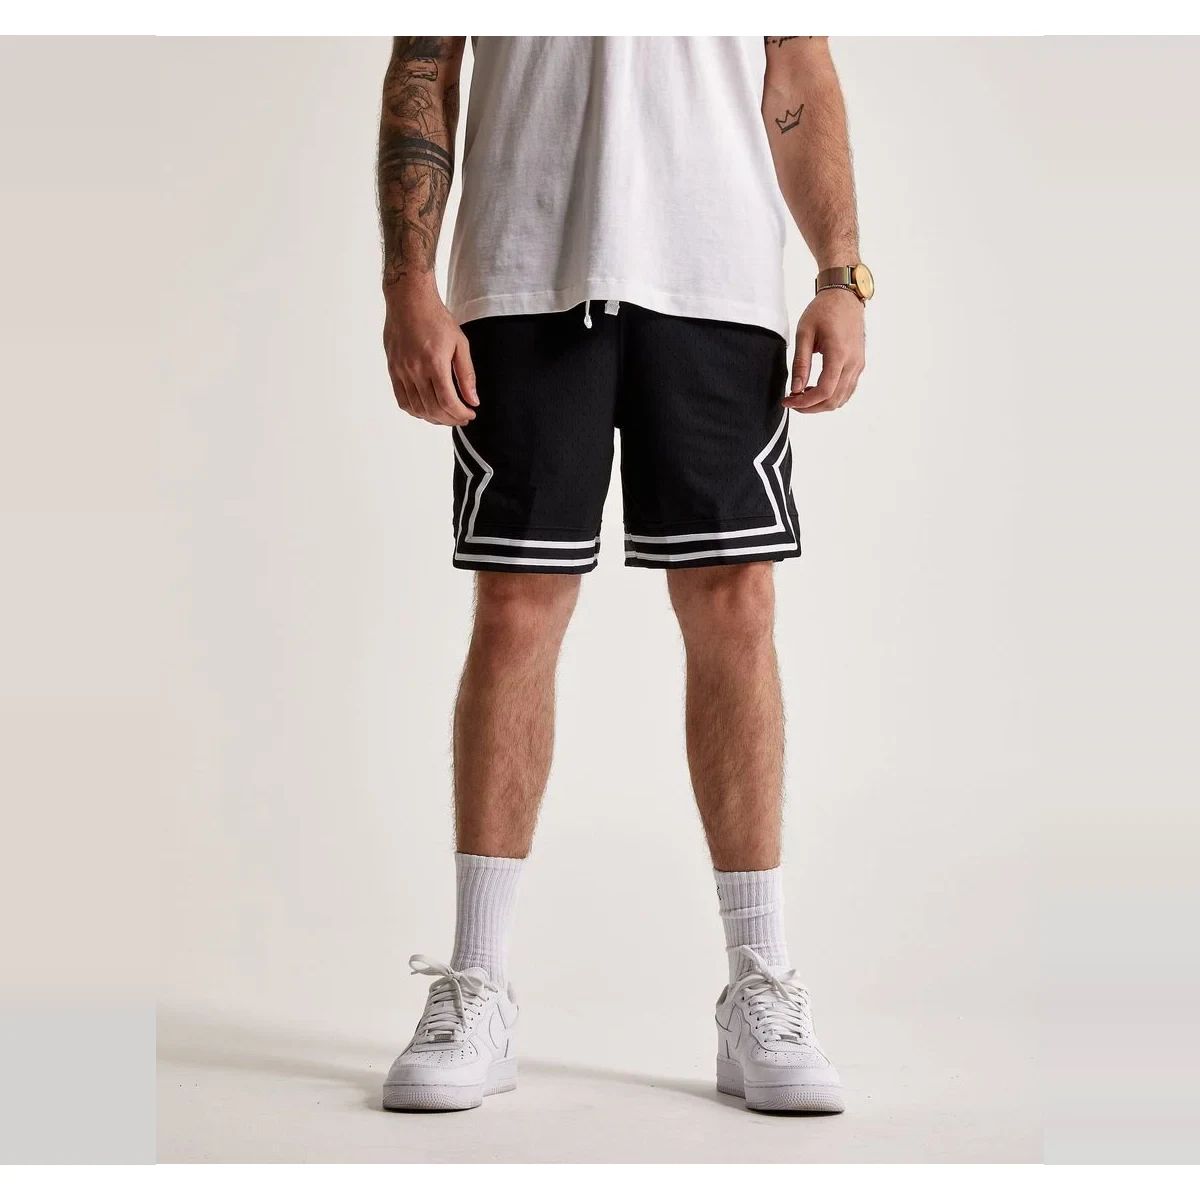
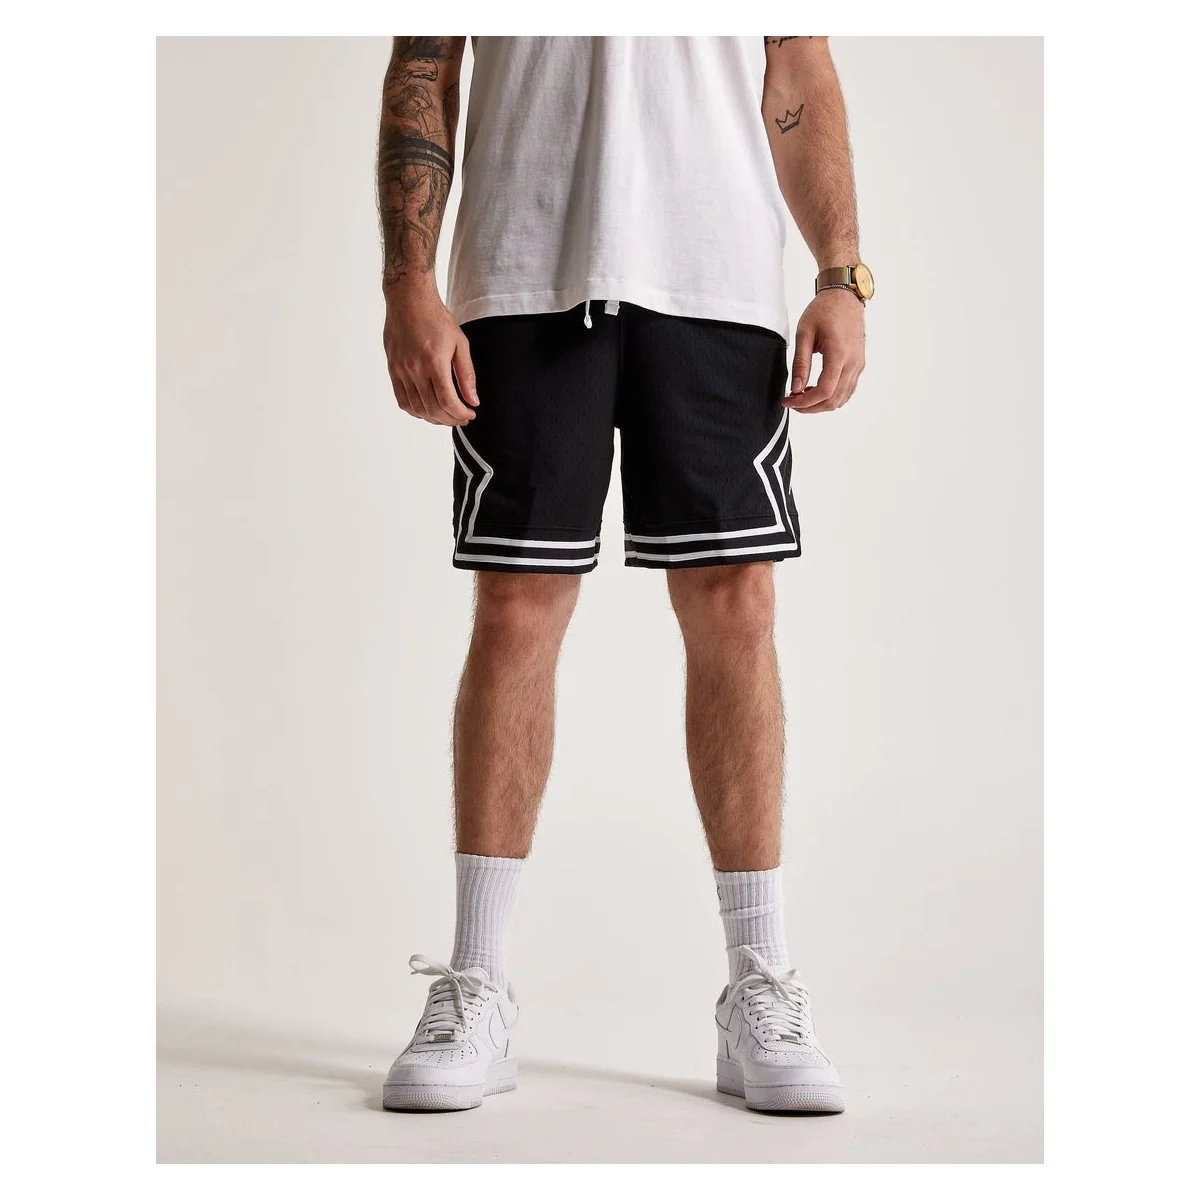
Порожня вітрина і тілесні поля на фото
Дві різні вади, обидві ви побачили на живому сайті.

ПОРОЖНІ БЛОКИ. Коли база не відповідала, сайт мовчки лишався ні з чим
і назавжди: запит падав, а підпис «завантажуємо каталог» висів вічно.
Тепер запит пробується тричі з паузою — на телефоні звʼязок зривається,
а часте оновлення впирається в обмеження бази, і однієї спроби замало.
Якщо всі три не вдались, покупець бачить «Каталог не завантажився»,
пояснення й кнопку оновити, а не порожнє місце без слів.

ТІЛЕСНІ ПОЛЯ. На кількох знімках річ зняли впритул, і нога торкається
обох країв кадру. Тоді «тлом» ставала сама шкіра, і поле заливало
тілесним. Тепер перевіряємо: якщо середина стовпця кольорова, це не
студійне тло — такий знімок не чіпаємо. Плюс не беремося, коли чистого
тла в стовпці меншість.

Перебрав усі 63 з оригіналів: 61 розтягнувся чисто, 2 лишились як були.
Перевірив і очима з утричі піднятим контрастом, і числом — кольоровість
поля в усіх у межах самого тла.

Changed region(s): [[0.8633, 0.0308, 1.0, 0.9867], [0.0, 0.0308, 0.1542, 0.9867]]

diff --git a/app.js b/app.js
@@ -794,6 +794,7 @@
         <p class="dsp h-md" id="noneH">Під ці умови нічого немає</p>
         <p id="noneT">Приберіть частину фільтрів — або замовте пошук: дістанемо потрібну модель з європейських магазинів.</p>
         <button class="btn" type="button" id="nonewish">Скинути фільтри</button>
+        <button class="btn" type="button" id="noneAgain" hidden>Оновити сторінку</button>
       </div>
 
       <div class="drw" id="drw">
@@ -879,15 +880,23 @@
       g.className = 'grid' + (st.view === 'list' ? ' grid--list' : '');
       g.hidden = !list.length;
       $('#none').hidden = !!list.length;
-      /* Порожньо буває з двох причин: фільтри надто вузькі або каталог
-         ще їде з бази. Друге не можна підписувати як перше. */
+      /* Порожньо буває з трьох причин: каталог ще їде, зовсім не доїхав
+         або фільтри надто вузькі. Підписи в них різні: перше — почекати,
+         друге — оновити сторінку, третє — послабити фільтри. */
       if (!list.length) {
-        const wait = window.JS_SLOW && !PRODUCTS.length;
-        $('#noneH').textContent = wait ? 'Завантажуємо каталог' : 'Під ці умови нічого немає';
+        const bare = !PRODUCTS.length;
+        const wait = bare && window.JS_SLOW;
+        const fail = bare && window.JS_FAIL;
+        $('#noneH').textContent = wait ? 'Завантажуємо каталог'
+          : fail ? 'Каталог не завантажився' : 'Під ці умови нічого немає';
         $('#noneT').textContent = wait
-          ? 'Хвилинку — тягнемо свіжі залишки й ціни. Якщо не зникне, оновіть сторінку.'
-          : 'Приберіть частину фільтрів — або замовте пошук: дістанемо потрібну модель з європейських магазинів.';
-        $('#nonewish').hidden = wait;
+          ? 'Хвилинку — тягнемо свіжі залишки й ціни.'
+          : fail
+            ? 'Схоже, урвався звʼязок. Товари на місці — оновіть сторінку, і вони зʼявляться.'
+            : 'Приберіть частину фільтрів — або замовте пошук: дістанемо потрібну модель з європейських магазинів.';
+        $('#nonewish').hidden = wait || fail;
+        const again = $('#noneAgain');
+        if (again) again.hidden = !fail;
       }
       found = list;
       draw(true);
@@ -992,6 +1001,7 @@
     }
     $('#fltReset').addEventListener('click', resetAll);
     $('#nonewish').addEventListener('click', resetAll);
+    $('#noneAgain').addEventListener('click', () => location.reload());
 
     apply();
   }

diff --git a/platform.js b/platform.js
@@ -20,9 +20,20 @@
   const id = Number((typeof CFG !== 'undefined' && CFG.siteId) || 0);
   if (!id) { window.JS_DATA_READY = Promise.resolve(false); return; }
 
-  const get = (path, range) => fetch(DB + path, {
+  /* Мережа на телефоні зривається, а часте оновлення сторінки впирається
+     в обмеження бази. Одна невдала спроба — і вітрина лишалась порожня,
+     тож пробуємо ще двічі з паузою. */
+  const once = (path, range) => fetch(DB + path, {
     headers: range ? { apikey: KEY, Range: range } : { apikey: KEY }
   }).then(r => (r.ok ? r.json() : Promise.reject(new Error('http ' + r.status))));
+  const get = async (path, range) => {
+    let last;
+    for (let i = 0; i < 3; i++) {
+      try { return await once(path, range); }
+      catch (e) { last = e; await new Promise(r => setTimeout(r, 400 * (i + 1))); }
+    }
+    throw last;
+  };
 
   /* Виклик функції бази: резерв кошика, оформлення замовлення.
      keep — щоб запит устиг піти, навіть коли вкладку вже закривають. */
@@ -150,7 +161,13 @@
         apply(r[0], r[1], r[2]);
         window.JS_SLOW = false;
         if (typeof window.JS_REDRAW === 'function') window.JS_REDRAW();
-      }).catch(() => {});
+      }).catch(() => {
+        /* Зовсім не дісталися бази. Мовчки лишати порожню вітрину не
+           можна: покупець має знати, що це збій, а не порожній магазин. */
+        window.JS_SLOW = false;
+        window.JS_FAIL = true;
+        if (typeof window.JS_REDRAW === 'function') window.JS_REDRAW();
+      });
       /* А поки їх немає — краще порожньо, ніж показувати демо як товар.
          swap тут не годиться: він мовчки пропускає порожній список. */
       PRODUCTS.splice(0, PRODUCTS.length);

diff --git a/index.html b/index.html
@@ -11,7 +11,7 @@
 <link rel="preconnect" href="https://fonts.googleapis.com">
 <link rel="preconnect" href="https://fonts.gstatic.com" crossorigin>
 <link href="https://fonts.googleapis.com/css2?family=Archivo:wdth,wght@112,500..900&family=Inter+Tight:wght@400..600&family=JetBrains+Mono:wght@400;500&display=swap" rel="stylesheet">
-<link rel="stylesheet" href="style.css?v=20260920g">
+<link rel="stylesheet" href="style.css?v=20260920h">
 <link rel="icon" type="image/png" href="img/favicon.png">
 <link rel="apple-touch-icon" href="img/favicon.png">
 </head>
@@ -106,9 +106,9 @@
 
 <footer id="ft"></footer>
 
-<script src="sprite.js?v=20260920g"></script>
-<script src="data.js?v=20260920g"></script>
-<script src="platform.js?v=20260920g"></script>
-<script src="app.js?v=20260920g"></script>
+<script src="sprite.js?v=20260920h"></script>
+<script src="data.js?v=20260920h"></script>
+<script src="platform.js?v=20260920h"></script>
+<script src="app.js?v=20260920h"></script>
 </body>
 </html>

diff --git a/dostavka.html b/dostavka.html
@@ -8,7 +8,7 @@
 <link rel="preconnect" href="https://fonts.googleapis.com">
 <link rel="preconnect" href="https://fonts.gstatic.com" crossorigin>
 <link href="https://fonts.googleapis.com/css2?family=Archivo:wdth,wght@112,500..900&family=Inter+Tight:wght@400..600&family=JetBrains+Mono:wght@400;500&display=swap" rel="stylesheet">
-<link rel="stylesheet" href="style.css?v=20260920g">
+<link rel="stylesheet" href="style.css?v=20260920h">
 <link rel="icon" type="image/png" href="img/favicon.png">
 <link rel="apple-touch-icon" href="img/favicon.png">
 </head>
@@ -61,9 +61,9 @@
 
 <footer id="ft"></footer>
 
-<script src="sprite.js?v=20260920g"></script>
-<script src="data.js?v=20260920g"></script>
-<script src="platform.js?v=20260920g"></script>
-<script src="app.js?v=20260920g"></script>
+<script src="sprite.js?v=20260920h"></script>
+<script src="data.js?v=20260920h"></script>
+<script src="platform.js?v=20260920h"></script>
+<script src="app.js?v=20260920h"></script>
 </body>
 </html>

diff --git a/katalog.html b/katalog.html
@@ -8,7 +8,7 @@
 <link rel="preconnect" href="https://fonts.googleapis.com">
 <link rel="preconnect" href="https://fonts.gstatic.com" crossorigin>
 <link href="https://fonts.googleapis.com/css2?family=Archivo:wdth,wght@112,500..900&family=Inter+Tight:wght@400..600&family=JetBrains+Mono:wght@400;500&display=swap" rel="stylesheet">
-<link rel="stylesheet" href="style.css?v=20260920g">
+<link rel="stylesheet" href="style.css?v=20260920h">
 <link rel="icon" type="image/png" href="img/favicon.png">
 <link rel="apple-touch-icon" href="img/favicon.png">
 </head>
@@ -28,9 +28,9 @@
 
 <footer id="ft"></footer>
 
-<script src="sprite.js?v=20260920g"></script>
-<script src="data.js?v=20260920g"></script>
-<script src="platform.js?v=20260920g"></script>
-<script src="app.js?v=20260920g"></script>
+<script src="sprite.js?v=20260920h"></script>
+<script src="data.js?v=20260920h"></script>
+<script src="platform.js?v=20260920h"></script>
+<script src="app.js?v=20260920h"></script>
 </body>
 </html>

diff --git a/kontakty.html b/kontakty.html
@@ -8,7 +8,7 @@
 <link rel="preconnect" href="https://fonts.googleapis.com">
 <link rel="preconnect" href="https://fonts.gstatic.com" crossorigin>
 <link href="https://fonts.googleapis.com/css2?family=Archivo:wdth,wght@112,500..900&family=Inter+Tight:wght@400..600&family=JetBrains+Mono:wght@400;500&display=swap" rel="stylesheet">
-<link rel="stylesheet" href="style.css?v=20260920g">
+<link rel="stylesheet" href="style.css?v=20260920h">
 <link rel="icon" type="image/png" href="img/favicon.png">
 <link rel="apple-touch-icon" href="img/favicon.png">
 </head>
@@ -44,9 +44,9 @@
 
 <footer id="ft"></footer>
 
-<script src="sprite.js?v=20260920g"></script>
-<script src="data.js?v=20260920g"></script>
-<script src="platform.js?v=20260920g"></script>
-<script src="app.js?v=20260920g"></script>
+<script src="sprite.js?v=20260920h"></script>
+<script src="data.js?v=20260920h"></script>
+<script src="platform.js?v=20260920h"></script>
+<script src="app.js?v=20260920h"></script>
 </body>
 </html>

diff --git a/koshyk.html b/koshyk.html
@@ -8,7 +8,7 @@
 <link rel="preconnect" href="https://fonts.googleapis.com">
 <link rel="preconnect" href="https://fonts.gstatic.com" crossorigin>
 <link href="https://fonts.googleapis.com/css2?family=Archivo:wdth,wght@112,500..900&family=Inter+Tight:wght@400..600&family=JetBrains+Mono:wght@400;500&display=swap" rel="stylesheet">
-<link rel="stylesheet" href="style.css?v=20260920g">
+<link rel="stylesheet" href="style.css?v=20260920h">
 <link rel="icon" type="image/png" href="img/favicon.png">
 <link rel="apple-touch-icon" href="img/favicon.png">
 </head>
@@ -29,9 +29,9 @@
 
 <footer id="ft"></footer>
 
-<script src="sprite.js?v=20260920g"></script>
-<script src="data.js?v=20260920g"></script>
-<script src="platform.js?v=20260920g"></script>
-<script src="app.js?v=20260920g"></script>
+<script src="sprite.js?v=20260920h"></script>
+<script src="data.js?v=20260920h"></script>
+<script src="platform.js?v=20260920h"></script>
+<script src="app.js?v=20260920h"></script>
 </body>
 </html>

diff --git a/tovar.html b/tovar.html
@@ -8,7 +8,7 @@
 <link rel="preconnect" href="https://fonts.googleapis.com">
 <link rel="preconnect" href="https://fonts.gstatic.com" crossorigin>
 <link href="https://fonts.googleapis.com/css2?family=Archivo:wdth,wght@112,500..900&family=Inter+Tight:wght@400..600&family=JetBrains+Mono:wght@400;500&display=swap" rel="stylesheet">
-<link rel="stylesheet" href="style.css?v=20260920g">
+<link rel="stylesheet" href="style.css?v=20260920h">
 <link rel="icon" type="image/png" href="img/favicon.png">
 <link rel="apple-touch-icon" href="img/favicon.png">
 </head>
@@ -38,9 +38,9 @@
 
 <footer id="ft"></footer>
 
-<script src="sprite.js?v=20260920g"></script>
-<script src="data.js?v=20260920g"></script>
-<script src="platform.js?v=20260920g"></script>
-<script src="app.js?v=20260920g"></script>
+<script src="sprite.js?v=20260920h"></script>
+<script src="data.js?v=20260920h"></script>
+<script src="platform.js?v=20260920h"></script>
+<script src="app.js?v=20260920h"></script>
 </body>
 </html>
